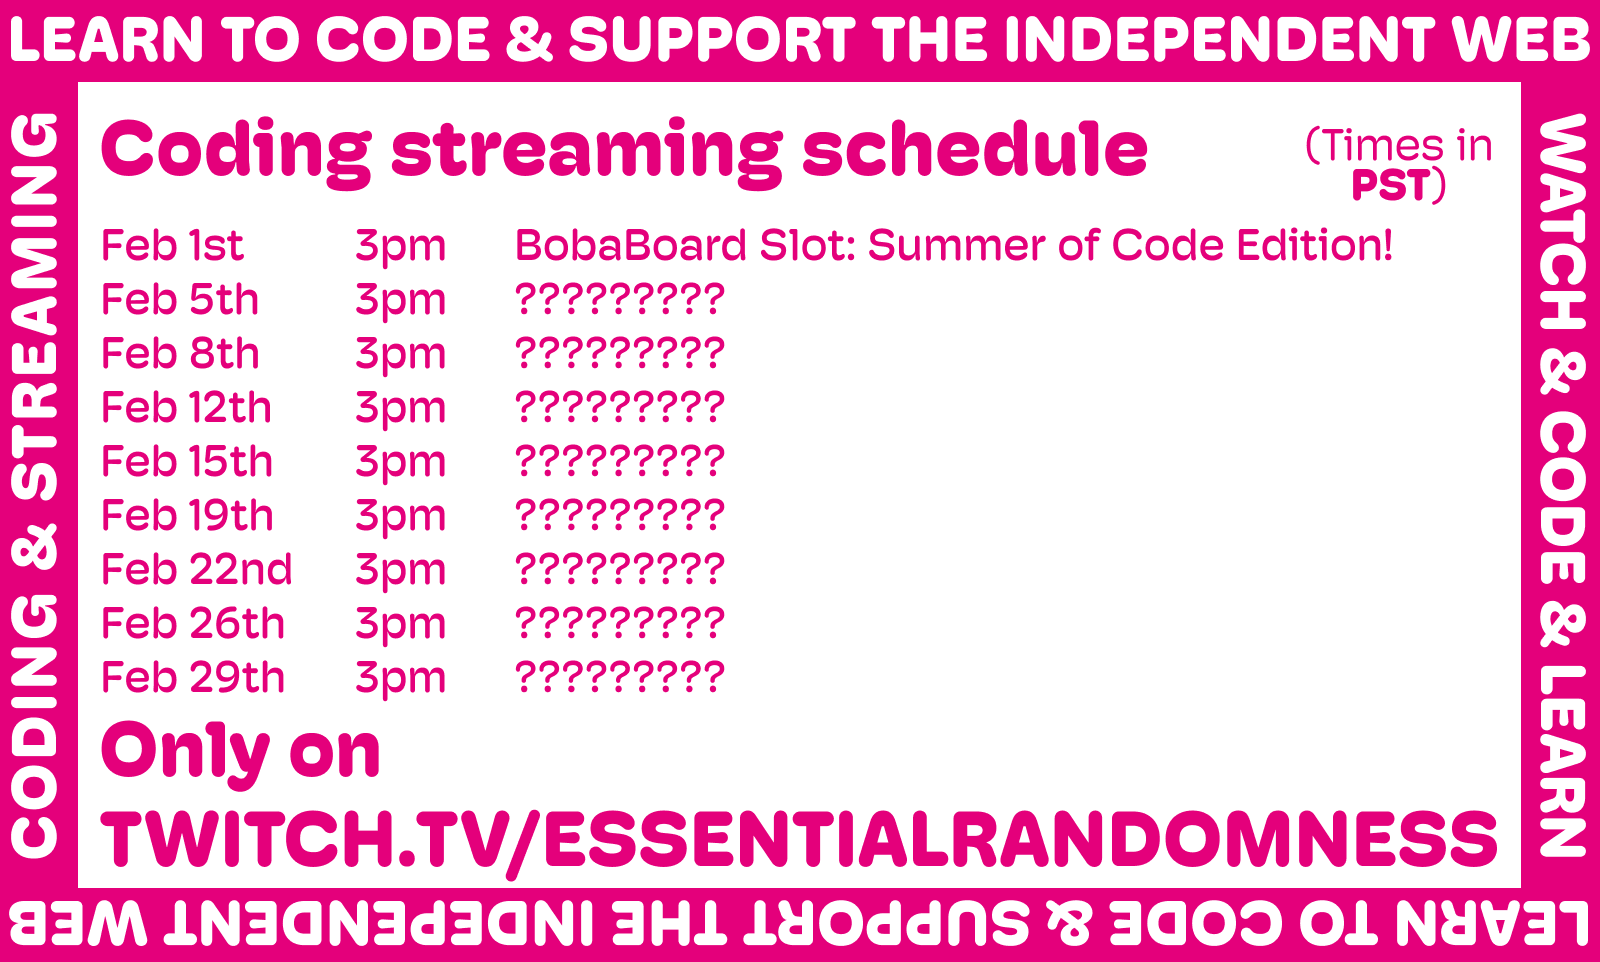
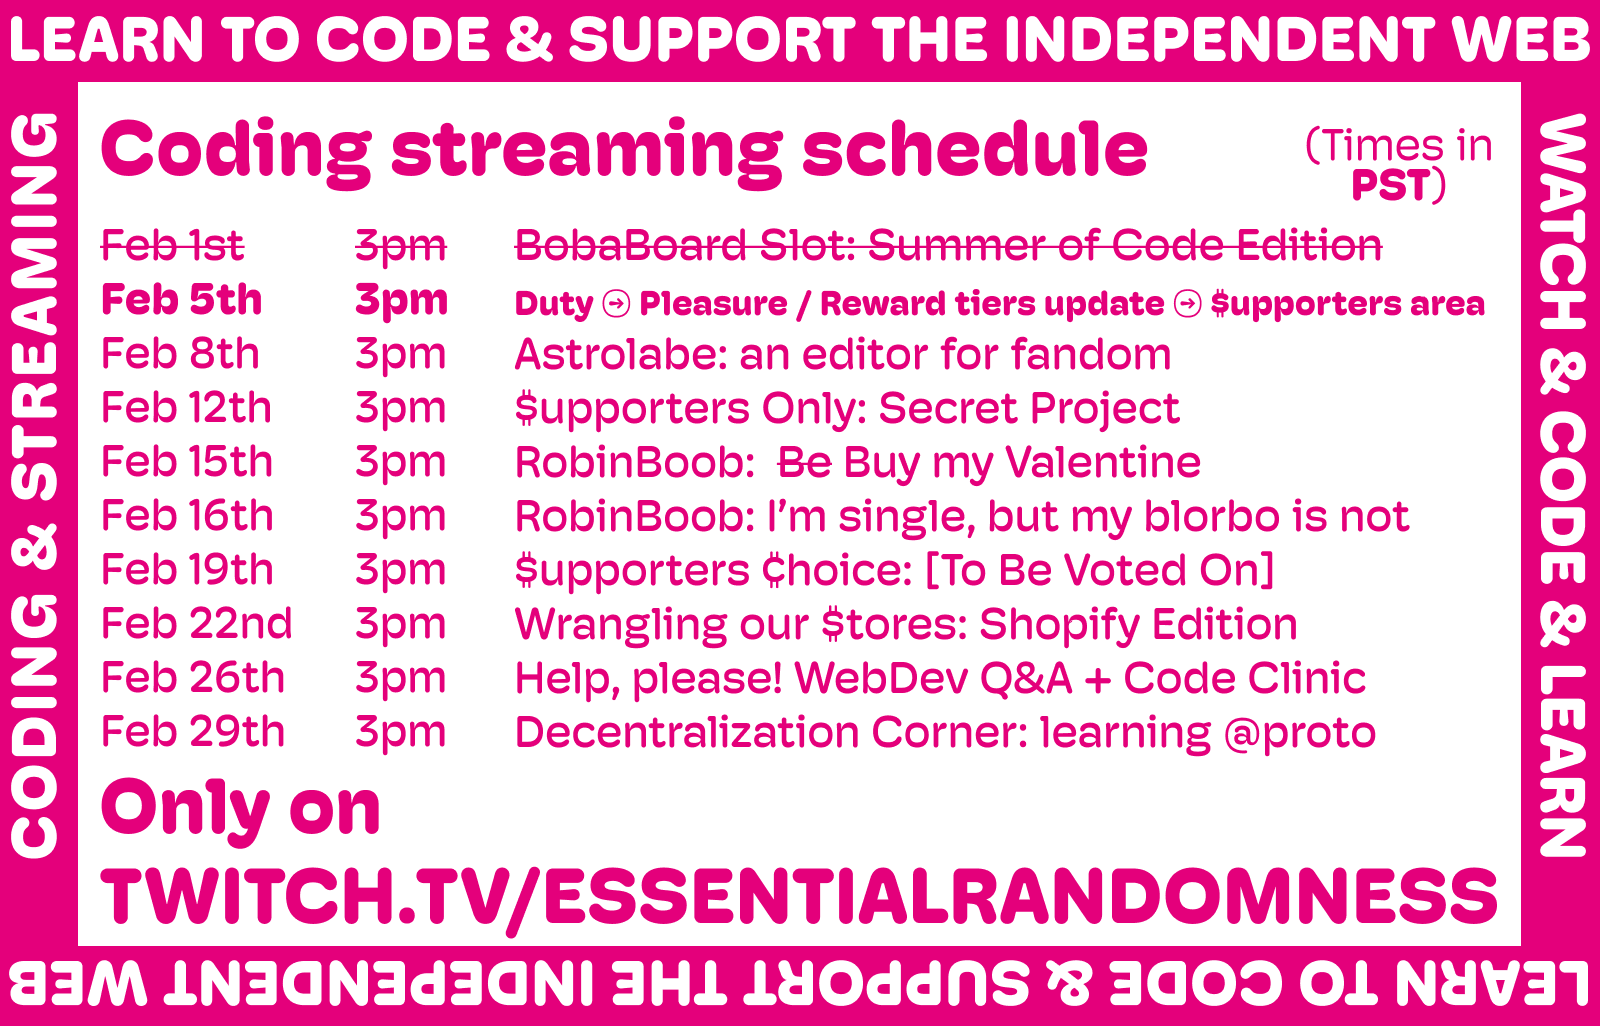
fill in all stream descriptions

diff --git a/src/content/streams/_config.ts b/src/content/streams/_config.ts
@@ -10,7 +10,6 @@ export const streams = defineCollection({
       description: z
         .string()
         .transform((description) => parseInline(description) ?? ""),
-      private: z.boolean().optional().default(false),
       scheduled_at: z.date().transform((date) => {
         return new Date(
           Temporal.ZonedDateTime.from({

diff --git a/src/content/streams/2024-02/22-stores-revamp.md b/src/content/streams/2024-02/22-stores-revamp.md
@@ -1,5 +1,8 @@
 ---
 title: "Wrangling our $tores: Shopify Edition"
-description: "Starting with something I must do, then continuing to what I want to do: learn HTMX, finally try Turso, then make a supporters area"
+description: |
+  The stores for our physical products ([FujoBoard](https://fujoboard.com/), [Merch](https://store.bobaboard.com/)) are currently managed through [Ecwid](https://www.ecwid.com/)! Unfortunately,
+  Ecwid's API has been–pardon our french–a *pain in the ass*. In this stream, we'll begin moving
+  to Shopify, and learn how to use  [an Astro website starter](https://astro.build/themes/details/astro-shopify/)!
 scheduled_at: 2024-02-22 15:00:00
 ---

diff --git a/src/content/streams/2024-02/29-decentralization-corner.md b/src/content/streams/2024-02/29-decentralization-corner.md
@@ -1,5 +1,10 @@
 ---
 title: "Decentralization Corner: learning @proto"
-description: "Starting with something I must do, then continuing to what I want to do: learn HTMX, finally try Turso, then make a supporters area"
+description: |
+  On this edition of "decentralization corner", we look at one of the up-and-coming technologies in the
+  social networks space: [@proto](https://atproto.com/), the protocol behind BlueSky. If time permits,
+  we'll also look into [generating a custom feed](https://github.com/bluesky-social/feed-generator) of Fandom Coders!
+tags:
+  - decentralization corner
 scheduled_at: 2024-02-29 15:00:00
 ---

diff --git a/src/content/streams/2024-02/19-supporters-choice.md b/src/content/streams/2024-02/19-supporters-choice.md
@@ -1,5 +1,10 @@
 ---
-title: "$upporters ¢hoice: To Be Voted On"
-description: "Starting with something I must do, then continuing to what I want to do: learn HTMX, finally try Turso, then make a supporters area"
+title: "$upporters ¢hoice: [To Be Voted On]"
+description: |
+  Every month, [$upporters](https://www.essentialrandomness.com/posts) get to vote on the topic of a special stream session! Past choices have included
+  Astro starters, markdown plugins, as well as progress on existing projects. Check back later for more
+  info on this month's choices!
 scheduled_at: 2024-02-19 15:00:00
+tags:
+  - $upporters ¢hoice
 ---

diff --git a/src/content/streams/2024-02/08-astrolabe.md b/src/content/streams/2024-02/08-astrolabe.md
@@ -1,5 +1,7 @@
 ---
 title: "Astrolabe: an editor for fandom"
-description: "Starting with something I must do, then continuing to what I want to do: learn HTMX, finally try Turso, then make a supporters area"
+description: |
+  Come learn about [Astrolabe](https://github.com/essential-randomness/boba-editor-next), an upcoming text
+  editor for BobaBoard and beyond! In this stream, we'll solve a long-standing problem with its bundling config. Expect tears, anger, and a whole lot of [Vite](https://vitejs.dev/) + [Rollup](https://rollupjs.org/)!
 scheduled_at: 2024-02-08 15:00:00
 ---

diff --git a/src/content/streams/2024-02/14-valentine.md b/src/content/streams/2024-02/14-valentine.md
@@ -1,5 +1,8 @@
 ---
 title: "RobinBoob: ~~Be~~ Buy my Valentine"
-description: "Starting with something I must do, then continuing to what I want to do: learn HTMX, finally try Turso, then make a supporters area"
+description: |
+  In this Valentine's day special, we'll continue our rebuild of [RobinBoob](https://www.robinboob.com)
+  in Astro! Current plans include uploading images to [Cloudflare](https://www.cloudflare.com/developer-platform/cloudflare-images/)
+  , and building our characters search with [HTMX](https://htmx.org/).
 scheduled_at: 2024-02-14 15:00:00
 ---

diff --git a/src/content/streams/2024-02/12-supporters-only.md b/src/content/streams/2024-02/12-supporters-only.md
@@ -1,5 +1,9 @@
 ---
-title: "$upportes Only: Secret Project"
-description: "Starting with something I must do, then continuing to what I want to do: learn HTMX, finally try Turso, then make a supporters area"
+title: "$upporters Only: Secret Project"
+description: |
+  A new project has been brewing in Ms Boba (& collaborators)'s secret lab! While we aren't ready for
+  its web-wide debut yet, [$upporters](https://www.essentialrandomness.com/posts) can get a sneak peak and come witness its creation.
 scheduled_at: 2024-02-12 15:00:00
+tags:
+  - $upporters-only
 ---

diff --git a/src/content/streams/2024-02/01-bobaboard-slot.md b/src/content/streams/2024-02/01-bobaboard-slot.md
@@ -1,6 +1,9 @@
 ---
 title: "BobaBoard Slot: Summer of Code Edition"
-description: Let's do the summer of code together
+description: |
+  Every month, we dedicate a slot to [BobaBoard](https://www.bobaboard.com/) work! This month,
+  Ms Boba and collaborators walk through the ["defining an ideas list" exercise](https://google.github.io/gsocguides/mentor/defining-a-project-ideas-list)
+  required to apply for [Google Summer of Code](https://summerofcode.withgoogle.com/) (but without applying for real).
 scheduled_at: 2024-02-01 15:00:00
 tags:
   - bobaboard slot

diff --git a/src/content/streams/2024-02/15-singles-day.md b/src/content/streams/2024-02/15-singles-day.md
@@ -1,5 +1,8 @@
 ---
-title: "RobinBoob: I might be single, but my blorbo isn't"
-description: "Starting with something I must do, then continuing to what I want to do: learn HTMX, finally try Turso, then make a supporters area"
+title: "RobinBoob: I'm single, but my blorbo is not"
+description: |
+  In this singles day special, we'll continue our rebuild of [RobinBoob](https://www.robinboob.com)
+  in Astro! On this day we'll finish up what we didn't get to on the day before, then move on to
+  polishing our ship selector!
 scheduled_at: 2024-02-15 15:00:00
 ---

diff --git a/src/content/streams/2024-02/05-personal-blogging.md b/src/content/streams/2024-02/05-personal-blogging.md
@@ -1,7 +1,7 @@
 ---
-title: "Duty → Pleasure / Rewards update → $upporters-only area"
+title: "Duty → Pleasure / Reward tiers update → $upporters area"
 description: |
-  Starting with something I must do, then continuing to what I want to do: learn HTMX,
+  Starting with something I must do, then continuing to what I want to do:
   finally try [Turso](https://turso.tech/), then add an authentication system with 
   [Lucia](https://lucia-auth.com/) + [Drizzle](https://orm.drizzle.team/)
 scheduled_at: 2024-02-05 15:00:00

diff --git a/src/content/streams/2024-02/26-q-and-a-clinic.md b/src/content/streams/2024-02/26-q-and-a-clinic.md
@@ -1,5 +1,7 @@
 ---
-title: "WebDev Q&A/Code Clinic"
-description: "Starting with something I must do, then continuing to what I want to do: learn HTMX, finally try Turso, then make a supporters area"
+title: "Help, please! WebDev Q&A + Code Clinic"
+description: |
+  Code not working? WebDev concepts (and programming) getting you down? On this stream, you
+  get to bring us your questions and issues, and we'll do our best to answer and solve them!
 scheduled_at: 2024-02-26 15:00:00
 ---
